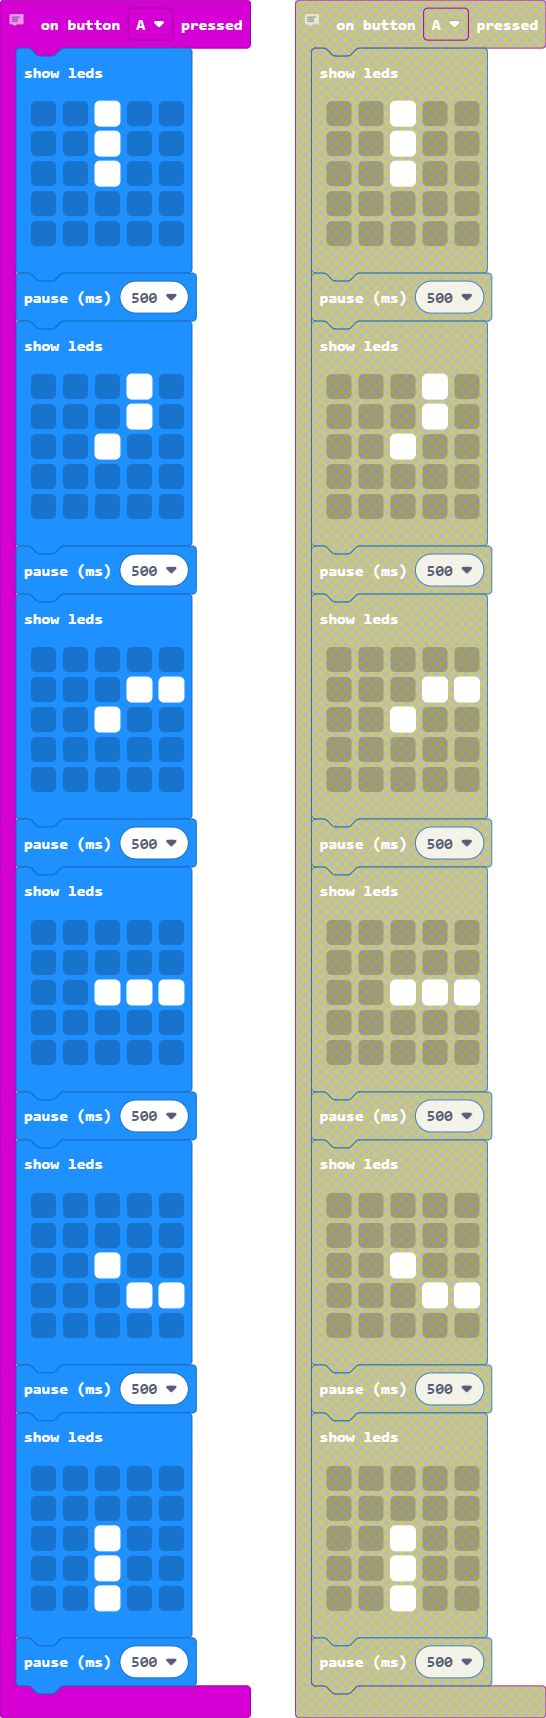
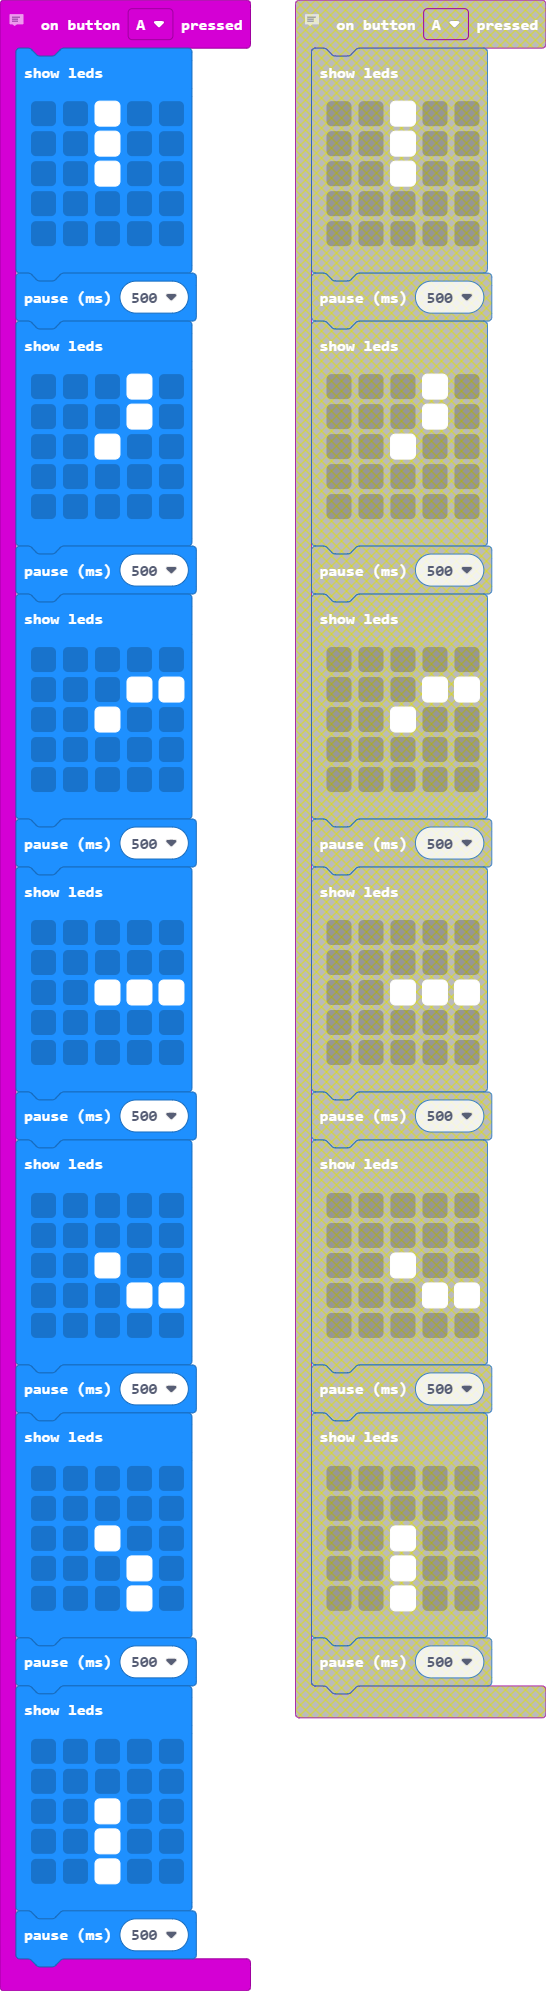
Update pxt.json, main.blocks, main.ts

diff --git a/main.ts b/main.ts
@@ -1,57 +1,65 @@
-//  https://github.com/jegyed50/jegyed50-bbc-microbit-study365-blocks-03-04-a
-//  https://github.com/jegyed50/jegyed50-bbc-microbit-study365-blocks-03-04-a/blob/master/03-04-pomodoro-timeline.jpg
-//  JEGYED50-BBC-MICROBIT-STUDY365-BLOCKS-03-04-A
-//  30 perces analóg óra, fél másoperces időtartamok, csak LED és pause
-input.onButtonPressed(Button.A, function on_button_pressed_a() {
+// https://github.com/jegyed50/jegyed50-bbc-microbit-study365-blocks-03-04-a
+// https://github.com/jegyed50/jegyed50-bbc-microbit-study365-blocks-03-04-a/blob/master/03-04-pomodoro-timeline.jpg
+// JEGYED50-BBC-MICROBIT-STUDY365-BLOCKS-03-04-A
+// 30 perces analóg óra, fél másoperces időtartamok, csak LED és pause
+input.onButtonPressed(Button.A, function () {
     basic.showLeds(`
         . . # . .
-                . . # . .
-                . . # . .
-                . . . . .
-                . . . . .
-    `)
+        . . # . .
+        . . # . .
+        . . . . .
+        . . . . .
+        `)
     basic.pause(500)
     basic.showLeds(`
         . . . # .
-                . . . # .
-                . . # . .
-                . . . . .
-                . . . . .
-    `)
+        . . . # .
+        . . # . .
+        . . . . .
+        . . . . .
+        `)
     basic.pause(500)
     basic.showLeds(`
         . . . . .
-                . . . # #
-                . . # . .
-                . . . . .
-                . . . . .
-    `)
+        . . . # #
+        . . # . .
+        . . . . .
+        . . . . .
+        `)
     basic.pause(500)
     basic.showLeds(`
         . . . . .
-                . . . . .
-                . . # # #
-                . . . . .
-                . . . . .
-    `)
+        . . . . .
+        . . # # #
+        . . . . .
+        . . . . .
+        `)
     basic.pause(500)
     basic.showLeds(`
         . . . . .
-                . . . . .
-                . . # . .
-                . . . # #
-                . . . . .
-    `)
+        . . . . .
+        . . # . .
+        . . . # #
+        . . . . .
+        `)
     basic.pause(500)
     basic.showLeds(`
         . . . . .
-                . . . . .
-                . . # . .
-                . . # . .
-                . . # . .
-    `)
+        . . . . .
+        . . # . .
+        . . . # .
+        . . . # .
+        `)
+    basic.pause(500)
+    basic.showLeds(`
+        . . . . .
+        . . . . .
+        . . # . .
+        . . # . .
+        . . # . .
+        `)
     basic.pause(500)
 })
-basic.forever(function on_forever() {
-    
+basic.forever(function () {
+	
 })
